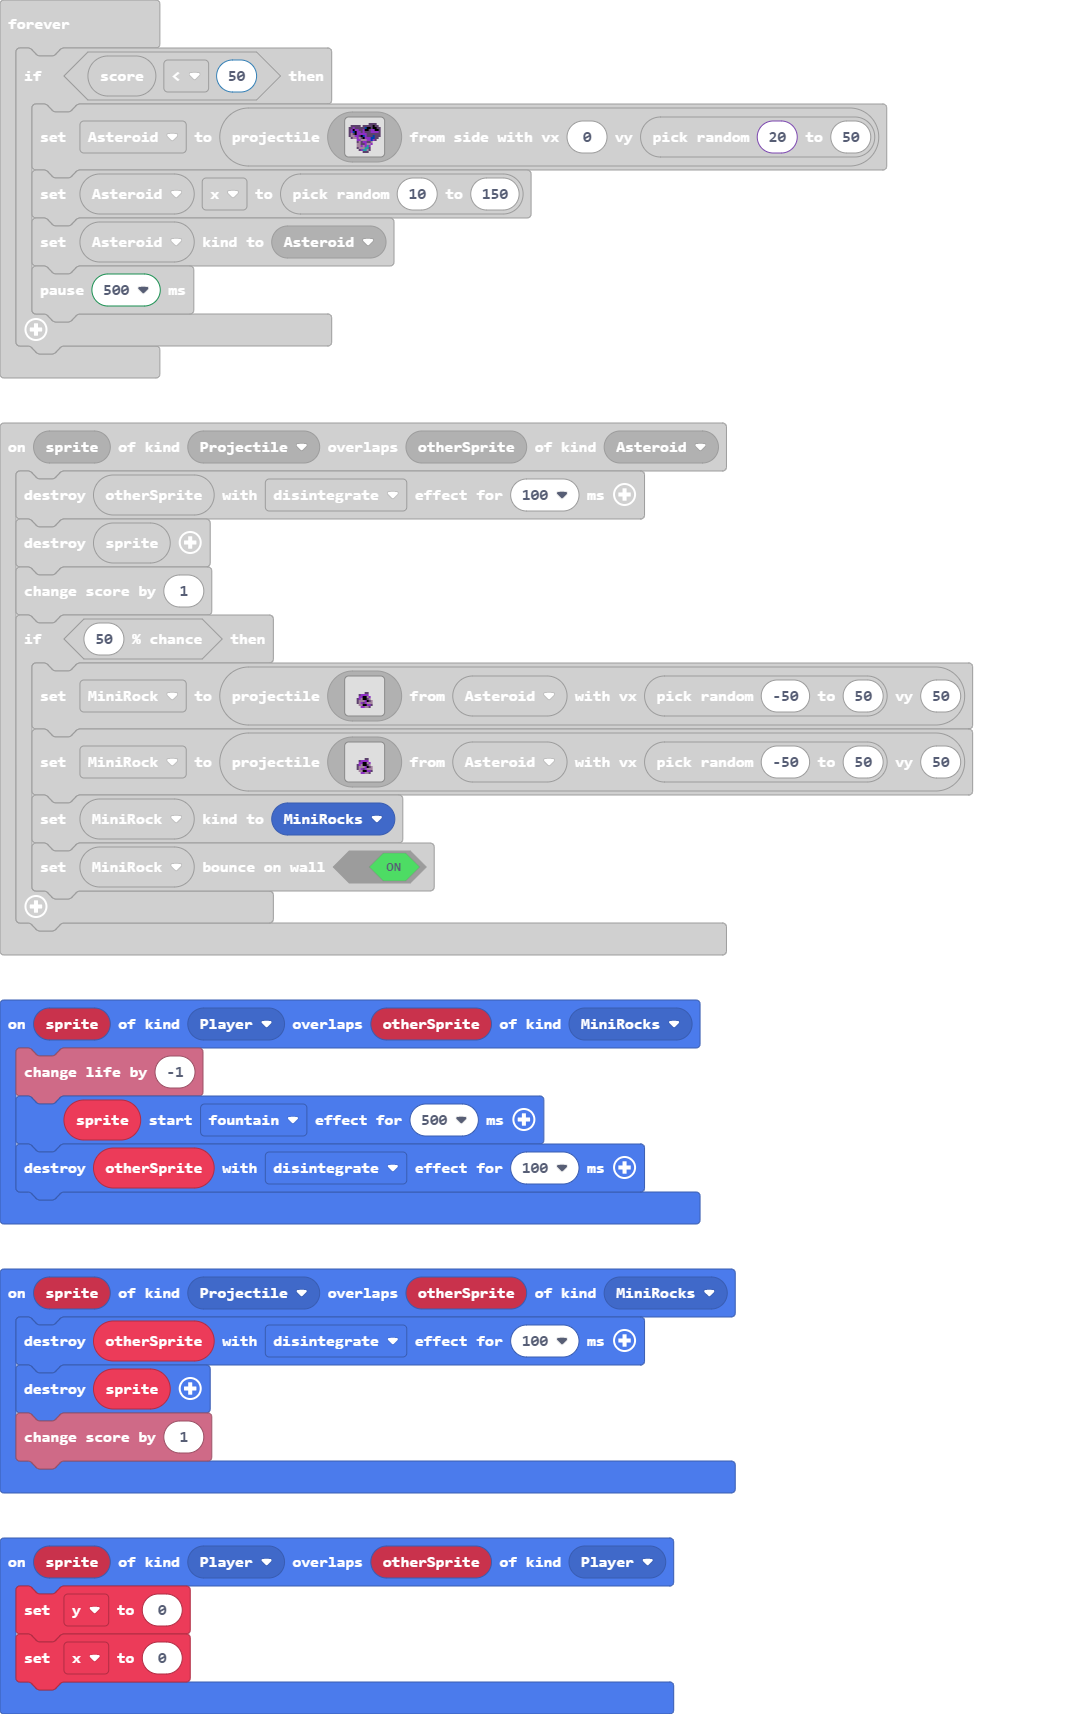
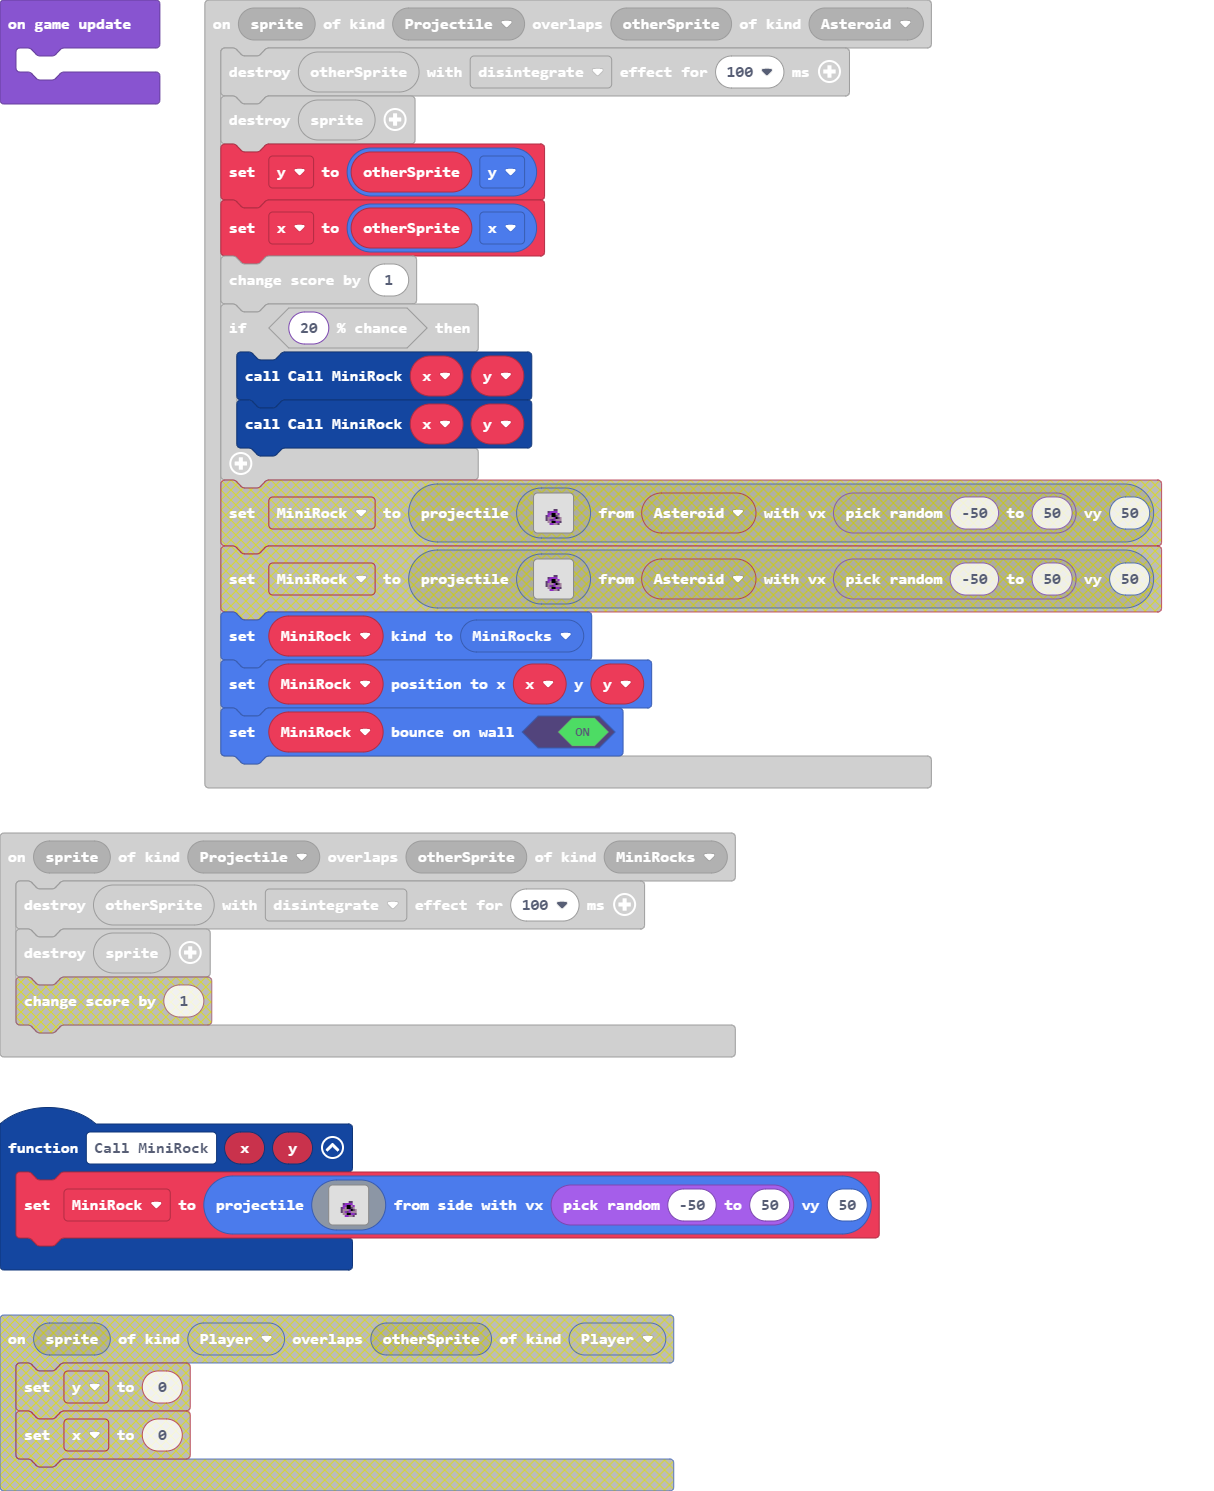
Update main.blocks, main.ts

diff --git a/main.ts b/main.ts
@@ -6,7 +6,6 @@ namespace SpriteKind {
 sprites.onOverlap(SpriteKind.Projectile, SpriteKind.MiniRocks, function (sprite, otherSprite) {
     otherSprite.destroy(effects.disintegrate, 100)
     sprite.destroy()
-    info.changeScoreBy(1)
 })
 controller.A.onEvent(ControllerButtonEvent.Pressed, function () {
     ALaser = sprites.createProjectileFromSprite(img`
@@ -46,15 +45,21 @@ controller.A.onEvent(ControllerButtonEvent.Pressed, function () {
     ALaser.y += 3
     pause(200)
 })
+function Call_MiniRock (x: number, y: number) {
+    MiniRock = sprites.createProjectileFromSide(assets.image`MiniAsteriod`, randint(-50, 50), 50)
+    MiniRock.setKind(SpriteKind.MiniRocks)
+    MiniRock.setPosition(x, y)
+    MiniRock.setBounceOnWall(true)
+}
 sprites.onOverlap(SpriteKind.Projectile, SpriteKind.Asteroid, function (sprite, otherSprite) {
     otherSprite.destroy(effects.disintegrate, 100)
     sprite.destroy()
+    y = otherSprite.y
+    x = otherSprite.x
     info.changeScoreBy(1)
-    if (Math.percentChance(50)) {
-        MiniRock = sprites.createProjectileFromSprite(assets.image`MiniAsteriod`, Asteroid, randint(-50, 50), 50)
-        MiniRock = sprites.createProjectileFromSprite(assets.image`MiniAsteriod`, Asteroid, randint(-50, 50), 50)
-        MiniRock.setKind(SpriteKind.MiniRocks)
-        MiniRock.setBounceOnWall(true)
+    if (Math.percentChance(20)) {
+        Call_MiniRock(x, y)
+        Call_MiniRock(x, y)
     }
 })
 sprites.onOverlap(SpriteKind.Player, SpriteKind.MiniRocks, function (sprite, otherSprite) {
@@ -67,16 +72,12 @@ sprites.onOverlap(SpriteKind.Player, SpriteKind.Asteroid, function (sprite, othe
     sprite.startEffect(effects.fountain, 500)
     otherSprite.destroy(effects.disintegrate, 100)
 })
-sprites.onOverlap(SpriteKind.Player, SpriteKind.Player, function (sprite, otherSprite) {
-    y = 0
-    x = 0
-})
 sprites.onCreated(SpriteKind.Player, function (sprite) {
     controller.moveSprite(sprite, 100, 100)
 })
-let x = 0
-let y = 0
 let Asteroid: Sprite = null
+let y = 0
+let x = 0
 let MiniRock: Sprite = null
 let ALaser: Sprite = null
 let FirstShip: Sprite = null
@@ -85,6 +86,9 @@ FirstShip.setStayInScreen(true)
 effects.starField.startScreenEffect()
 info.setScore(0)
 info.setLife(10)
+game.onUpdate(function () {
+	
+})
 forever(function () {
     if (info.score() < 50) {
         Asteroid = sprites.createProjectileFromSide(assets.image`Asteroid 1`, 0, randint(20, 50))
